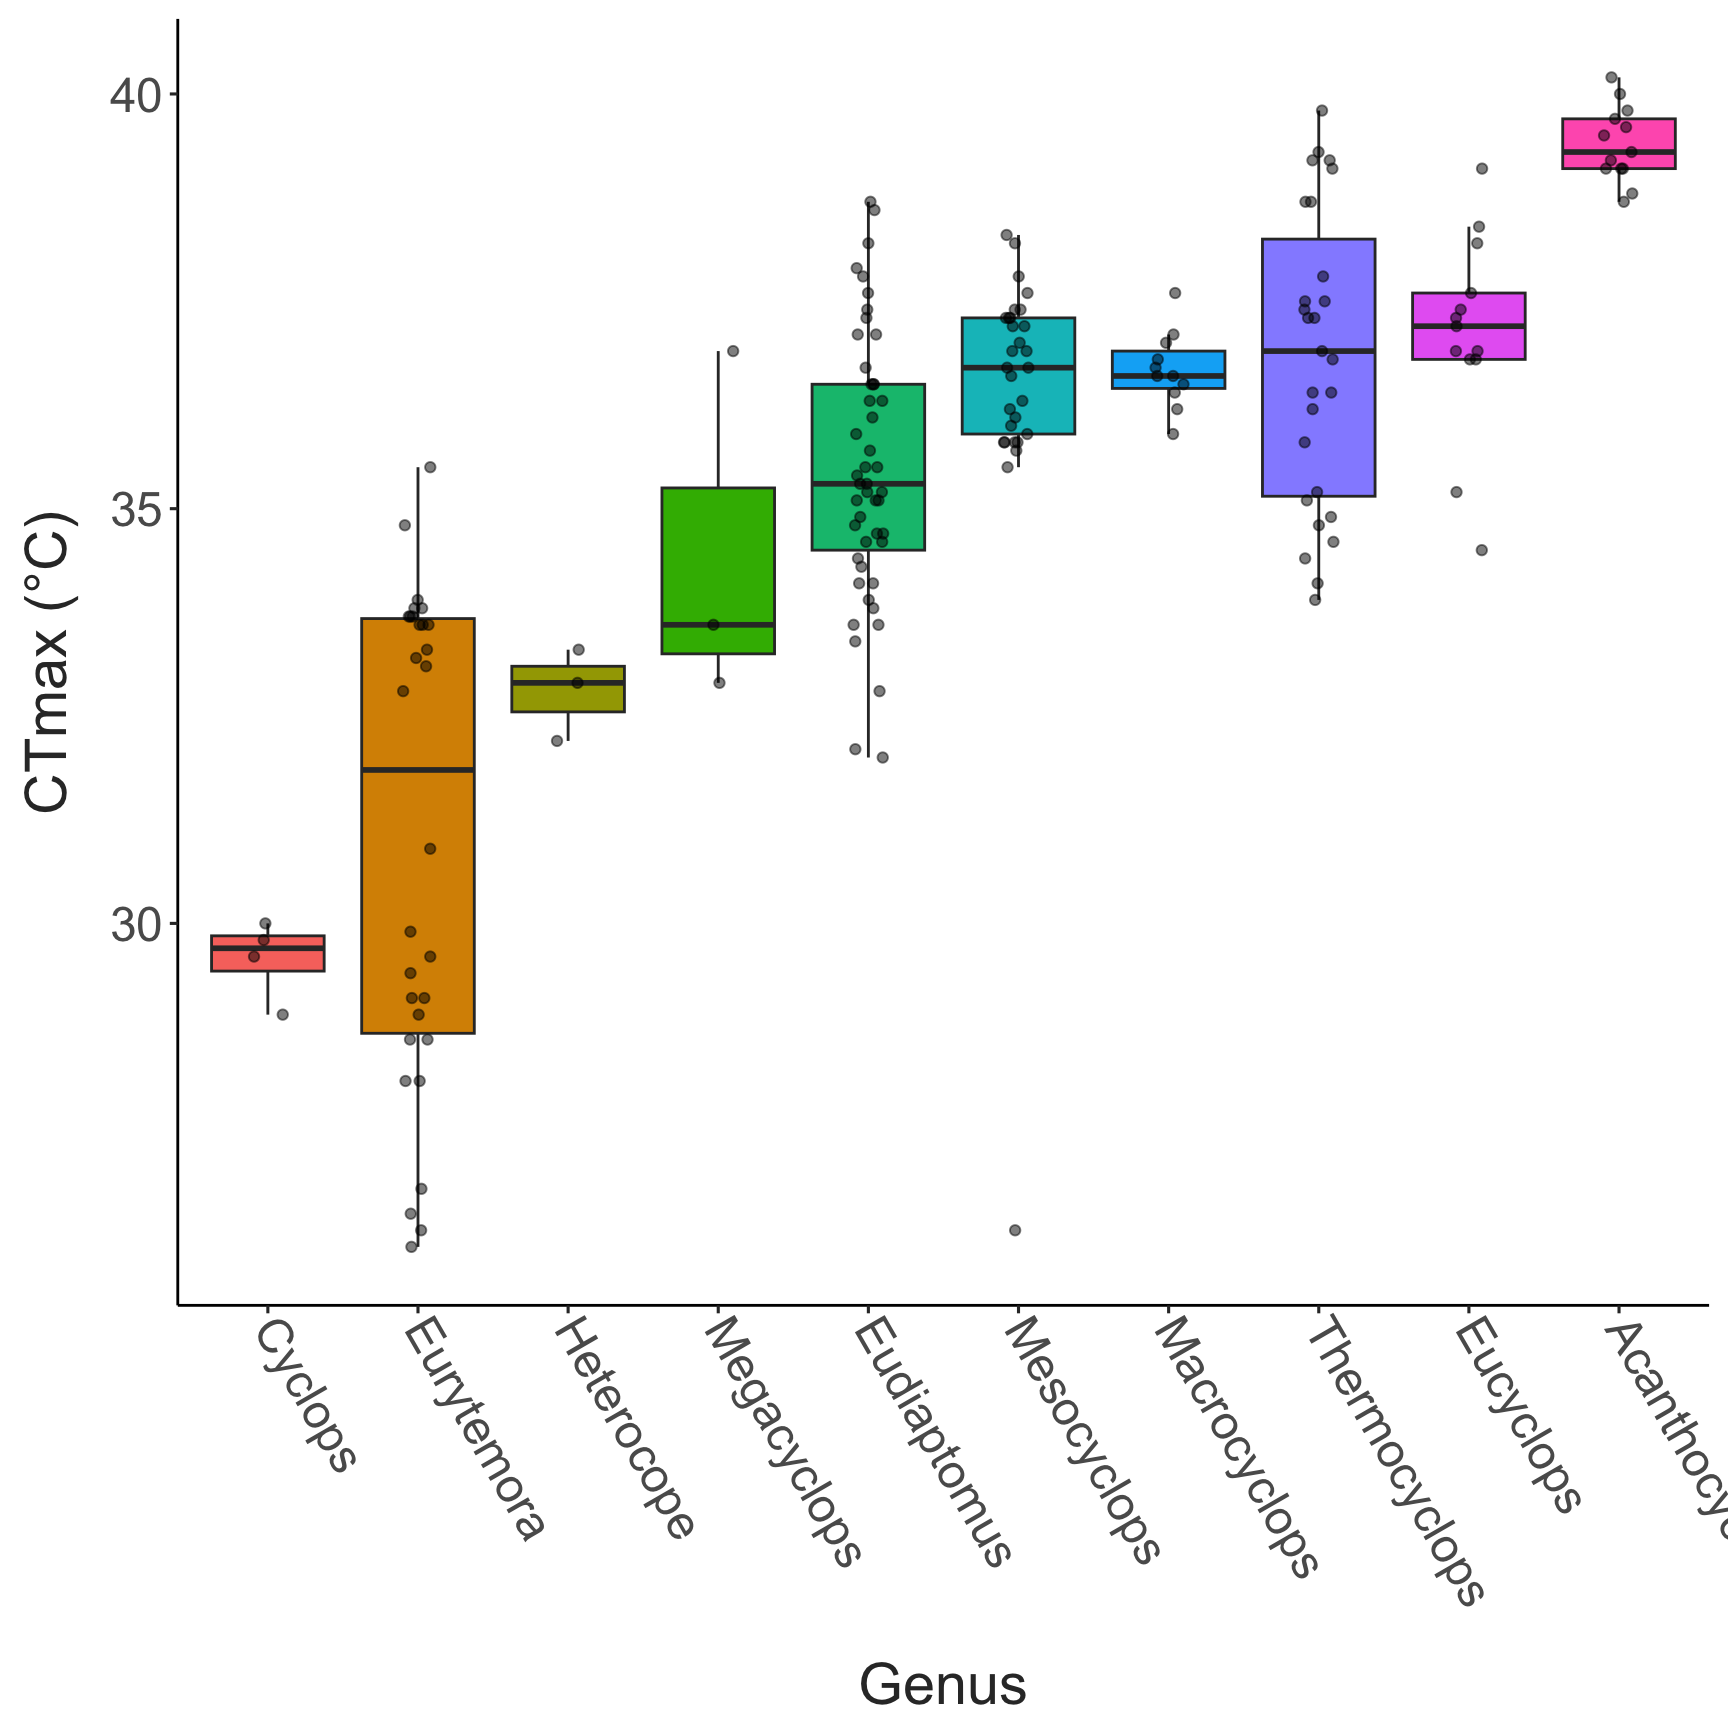
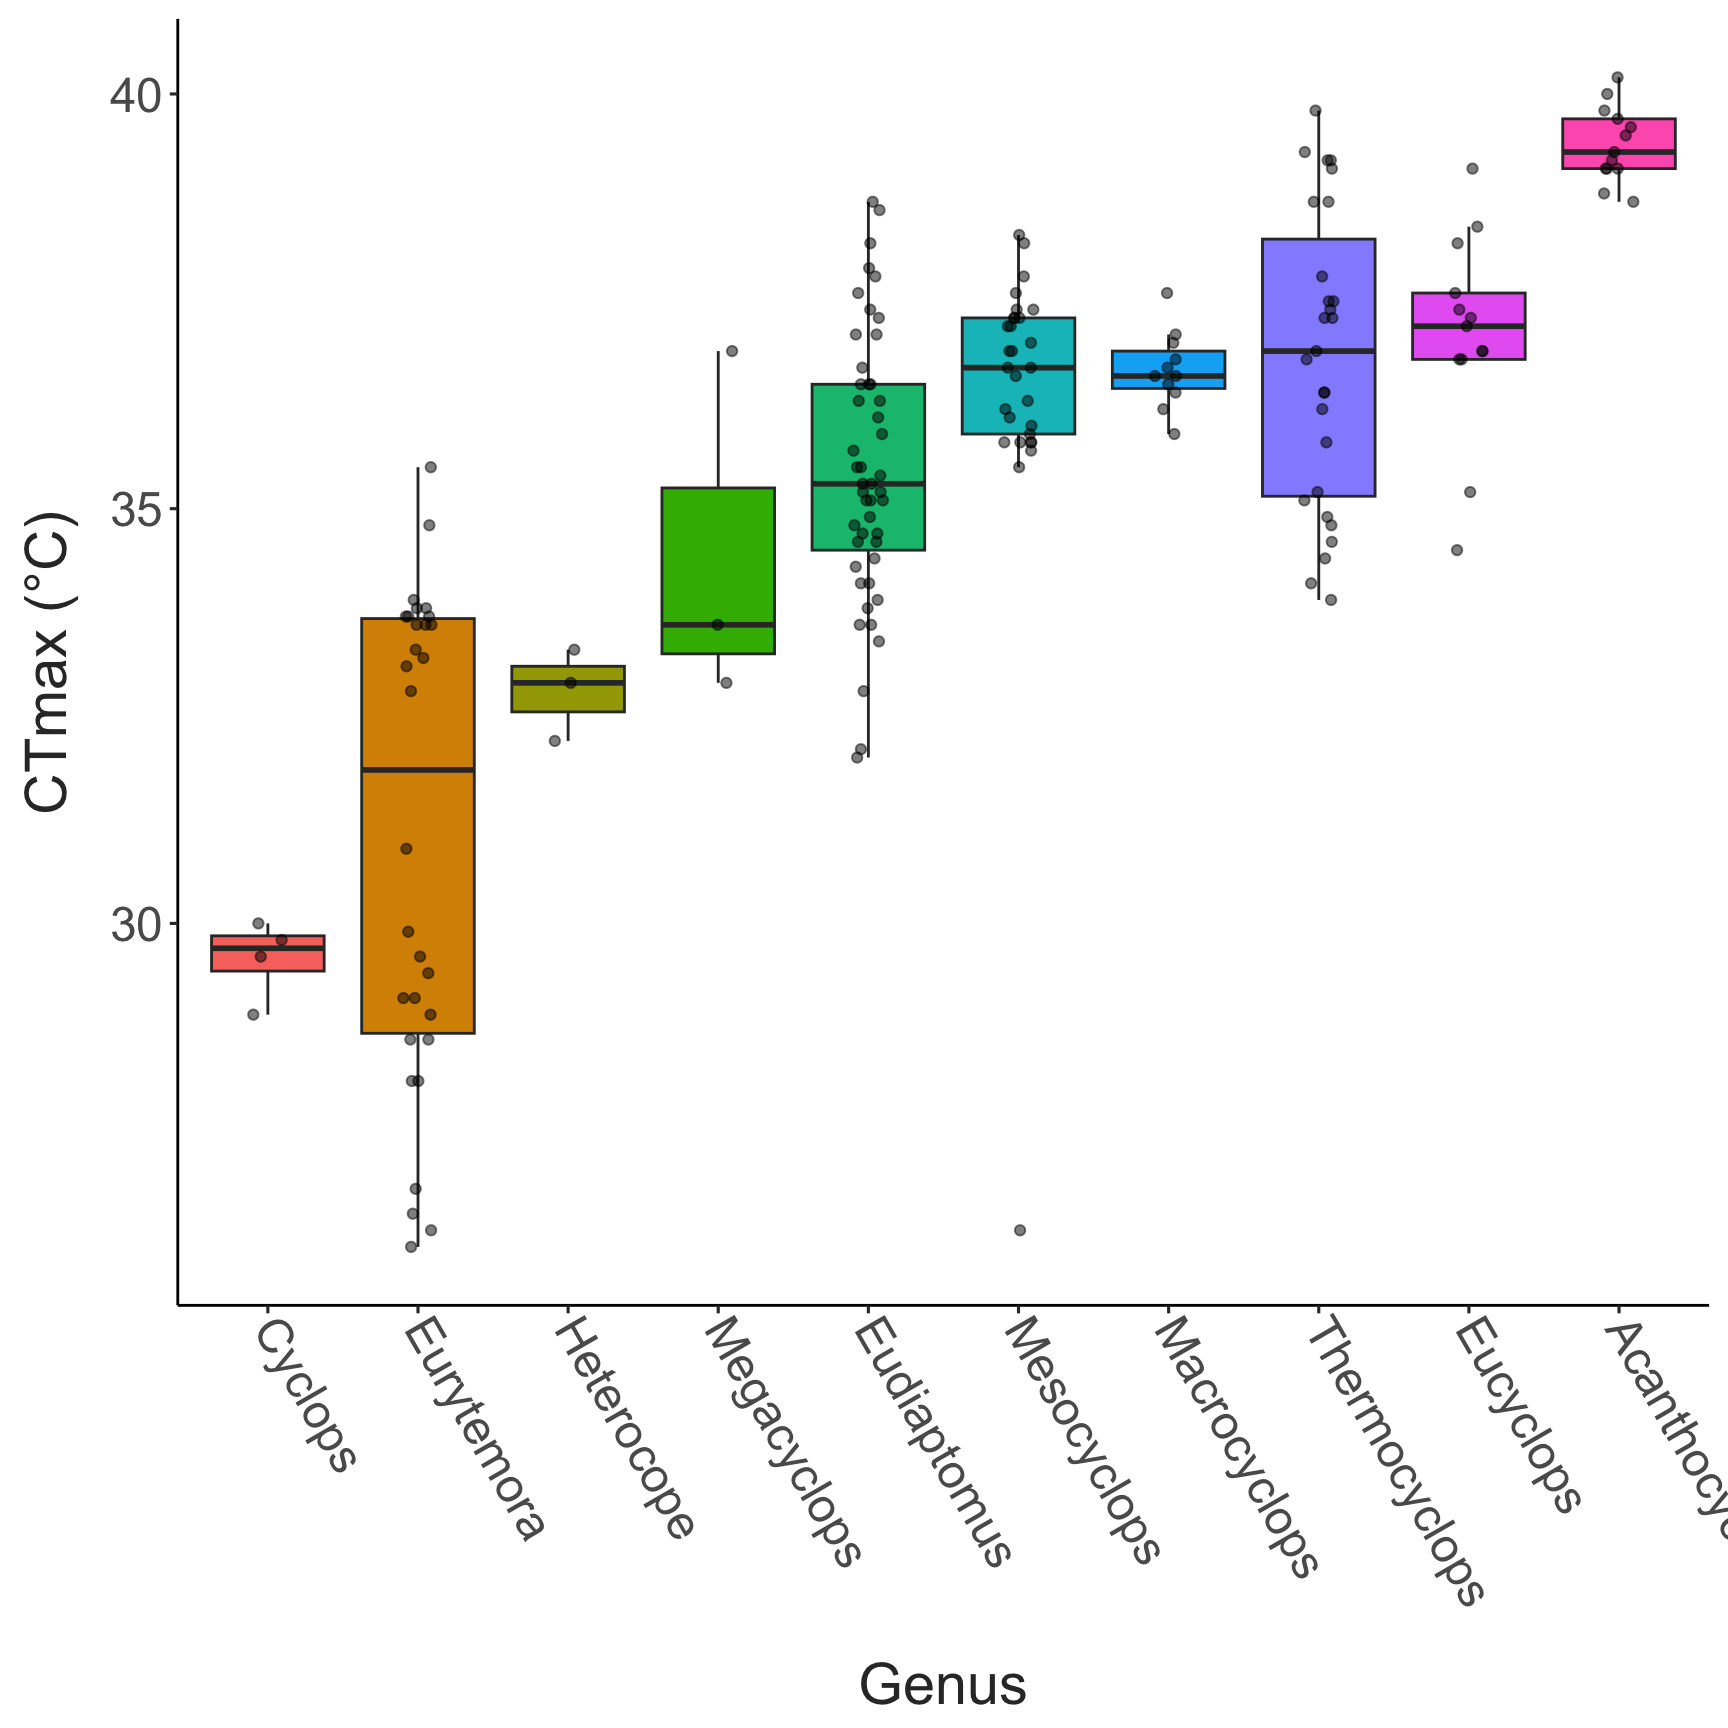
Updating analysis page

diff --git a/docs/data_summary.html b/docs/data_summary.html
@@ -195,6 +195,7 @@ ul.task-list li input[type="checkbox"] {
 </div>
 </div>
 </div>
+<p>We examined the data using a mixed effects model, where CTmax is modeled as a function of collection temperature, genus, and habitat type (with no interactions). Site, tube number (as a proxy for the position within the water bath), and the water bath ID were included as random effects. An ANOVA indicates strong effects of all factors.</p>
 <div class="cell" data-layout-align="center">
 <div class="cell-output-display">
 <table class="table table-sm table-striped small">
@@ -228,10 +229,13 @@ ul.task-list li input[type="checkbox"] {
 </tbody>
 </table>
 </div>
+</div>
+<p>Using this model, we can extract the marginal mean effects for each genus (i.e.&nbsp;what is the expected CTmax for each genus, controlling for other factors like collection temperature). Here we show the expected CTmax for each genus at a collection temperature of 20°C.</p>
+<div class="cell" data-layout-align="center">
 <div class="cell-output-display">
 <div class="quarto-figure quarto-figure-center">
 <figure class="figure">
-<p><img src="data_summary_files/figure-html/unnamed-chunk-8-1.png" class="img-fluid quarto-figure quarto-figure-center figure-img" width="672"></p>
+<p><img src="data_summary_files/figure-html/unnamed-chunk-9-1.png" class="img-fluid quarto-figure quarto-figure-center figure-img" width="672"></p>
 </figure>
 </div>
 </div>
